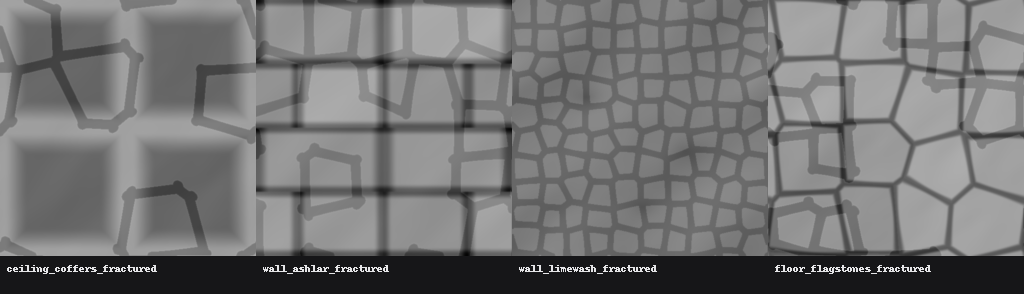
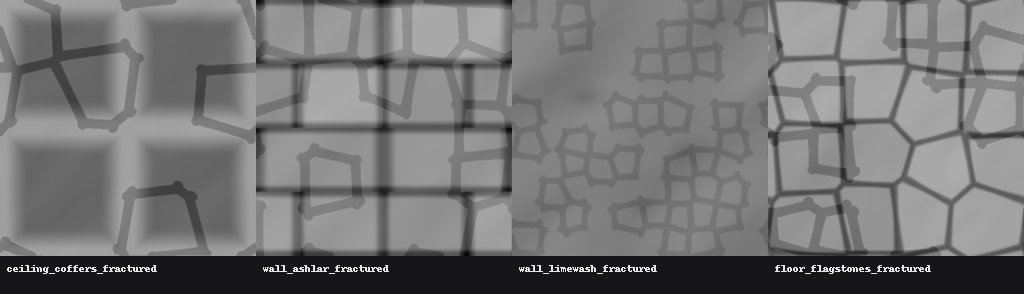
Record why fine crazing cannot live in a 64px height field
The limewash variant came back as a mosaic of separate tiles with grout --
exactly what its own negative prompt spelled out to prevent. Making the network
partial and the cut shallower (0.13 from 0.22) recovered patches of smooth render
but the cracked regions still read as discrete bevelled pieces, so the geometry
is committed as an improvement and the limit is recorded here rather than tuned
at further.

The arithmetic says it is not tunable. At cells=10 on a 512px map a cell is 51
source pixels, which is 6.4 pixels once the tile is 64px. The narrowest crack
that survives that downsampling is about 1.25 runtime texels -- 10 source pixels,
or 20% of a cell. Real craquelure is 1-2% of a cell. The crack is an order of
magnitude too wide relative to what it separates, so the cells between cracks
stop being a surface and become objects. No prompt can argue with that.

This is the same wall the ceiling fissure hit at 52 of 4096 texels, and it
generalises: a feature finer than roughly two runtime texels cannot exist in the
height field at all. Such detail belongs in the albedo, with no displacement --
which is also the only place it can be fine without being absent.

The wider lesson from the whole 08-07 pass, worth stating once: the authored
height field decides what the model paints and the prompt only nudges. The
machined porthole came from a hard alpha edge, the raised ribbon from an ambiguous
thin negative, and this mosaic from a complete fine tessellation. Every failure
[…]

diff --git a/tools/asset-gen/build_fractured_baselines_20260807.py b/tools/asset-gen/build_fractured_baselines_20260807.py
@@ -119,8 +119,16 @@ def wall_ashlar_fractured(size: int):
 def wall_limewash_fractured(size: int):
     field, _ = base.wall_limewash(size)
     # Crazing on a rendered surface: denser, shallower, no lip.
-    mask = fracture_mask(size, 8301, cells=10, width=0.008, runtime_texels=1.25)
-    field = cut_fracture(field, mask, depth=0.22)
+    #
+    # The first version used the COMPLETE fine network at depth 0.22 and the model
+    # painted a mosaic of separate stone tiles with grout -- precisely what the
+    # prompt's negatives were written to prevent. The geometry decides and the
+    # prompt cannot overrule it: a complete tessellation cut that deep IS the
+    # paving signal. Partial coverage and a much shallower cut make it read as
+    # craquelure in a render rather than as joints between pieces.
+    mask = fracture_mask(size, 8301, cells=10, width=0.008, fragment_share=0.34,
+                         runtime_texels=1.25)
+    field = cut_fracture(field, mask, depth=0.13)
     return base.force_wrap(gaussian_filter(field, 0.7, mode=("nearest", "wrap")), "x"), np.ones_like(field)
 
 
@@ -152,7 +160,8 @@ def _assert_rules(manifest: dict) -> None:
         assert row["role"] == "baseSurface", f"{name} must be a base surface"
         assert row["alphaCoverage"] == 1.0, f"{name} must be fully opaque"
         # The cut has to actually reach below the surface it is cut into.
-        assert row["signedMin"] < -0.18, (
+        floor = -0.12 if "limewash" in name else -0.18
+        assert row["signedMin"] < floor, (
             f"{name} only reaches {row['signedMin']}; the fracture is not cutting")
         worst = max(row["wrapError"].values(), default=0.0)
         assert worst <= 1e-6, f"{name} fracture does not tile: wrap error {worst}"
